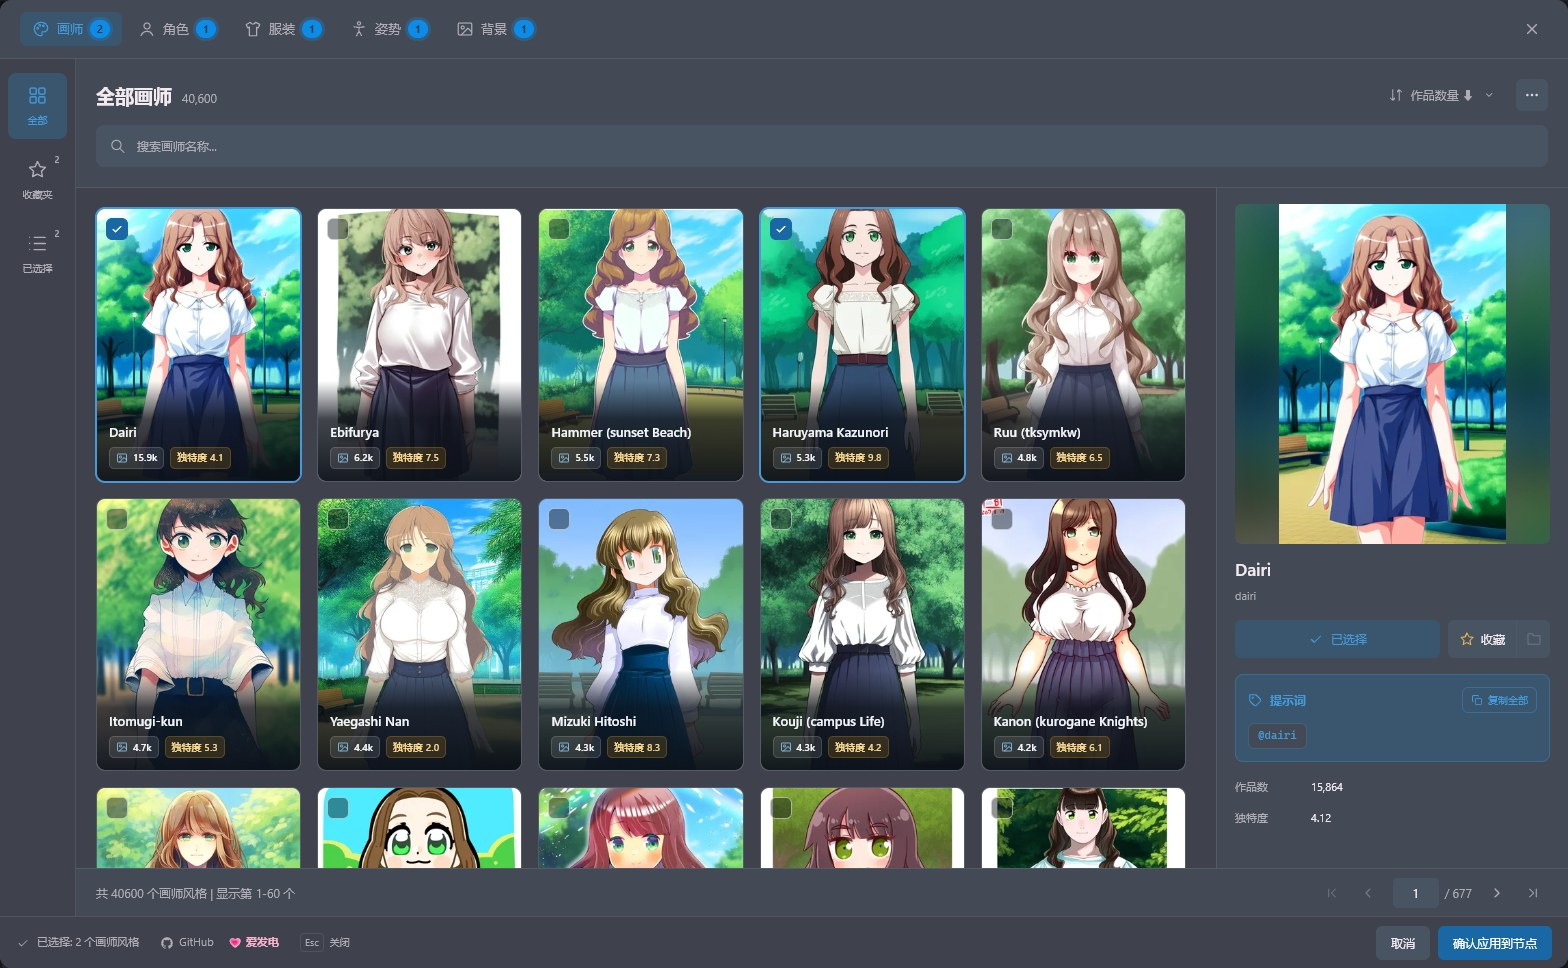
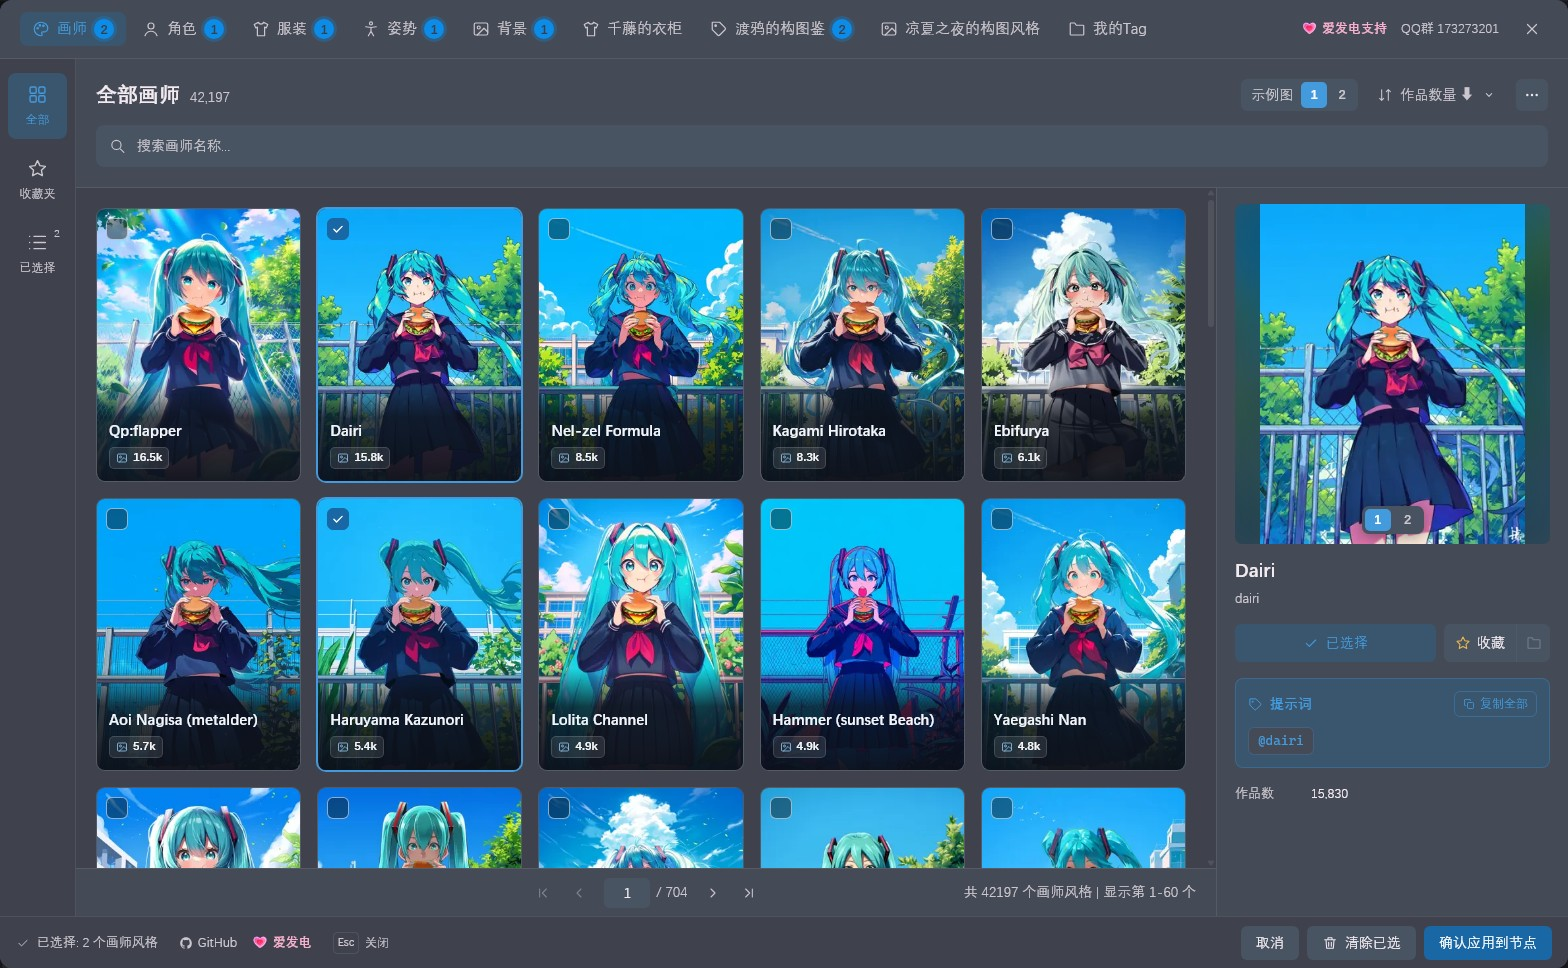
Update README with community libraries and new screenshots

diff --git a/README.md b/README.md
@@ -4,7 +4,7 @@
 
 **为 Anima 模型准备的 ComfyUI 提示词工具箱**
 
-可视化挑选画师、角色、服装、姿势与背景 · 一键随机抽卡 · 发现、下载并加载 Anima LoRA
+可视化挑选画师、角色、服装、姿势、背景与社区 Tag 库 · 自建我的Tag · 一键随机抽卡 · 发现、下载并加载 Anima LoRA
 
 <p>
   <img src="https://img.shields.io/badge/dynamic/toml?url=https%3A%2F%2Fraw.githubusercontent.com%2Fnregret%2FComfyui-Anima-Tools%2Fmain%2Fpyproject.toml&query=%24.project.version&label=version&color=ff69b4&style=flat-square" alt="Version">
@@ -15,7 +15,7 @@
   <img src="https://img.shields.io/badge/License-MIT-blue?style=flat-square" alt="License">
 </p>
 
-<sub>A ComfyUI toolkit for the Anima model: visual pickers for 42,197 artists, 8,000 characters, outfits, poses and backgrounds, a random prompt draw node, and an Anima LoRA manager. The UI follows ComfyUI's language setting (Chinese / English).</sub>
+<sub>A ComfyUI toolkit for the Anima model: visual pickers for 42,197 artists, 8,000 characters, outfits, poses and backgrounds, three community tag libraries (6,759 entries), a personal My Tags library, a random prompt draw node, and an Anima LoRA manager. The UI follows ComfyUI's language setting (Chinese / English).</sub>
 
 <img src="./img/artist.jpeg" alt="Anima 提示词选择器" width="100%">
 
@@ -26,6 +26,7 @@
 | 功能 | 说明 |
 | --- | --- |
 | 🎨 **一个弹窗挑全部提示词** | 画师 **42,197**、角色 **8,000**、服装 **430**、姿势 **297**、背景 **1,087**，顶部标签页切换，角标显示每类已选数量，选好的内容写进打开它的那个输入框 |
+| 📚 **社区 Tag 库 + 我的Tag** | 新增三个社区作者授权的 Tag 库共 **6,759** 条：千藤的衣柜 **125**、渡鸦的构图鉴 **6,570**、凉夏之夜的构图风格 **64**；还能在「我的Tag」里建自己的分类和条目，带封面，更新插件不丢失 |
 | 🎲 **随机抽卡** | 运行时从全量数据里随机抽画师、角色、服装、背景和姿势，固定种子可复现，结果带缩略图预览 |
 | 🧩 **Anima LoRA 管理器** | 在 ComfyUI 内搜索 Civitai 上的 Anima LoRA，下载、收藏、排序后直接叠加到模型上 |
 | 🖼 **Danbooru 随机图 + 标签** | 随机抽一张 Danbooru 静态图，同时输出按 Anima 写法整理好的标签 |
@@ -54,7 +55,7 @@ git clone https://github.com/nregret/Comfyui-Anima-Tools.git
 
 ### 🎨 提示词选择器
 
-五类选择器共用一个弹窗：左侧是「全部 / 收藏夹 / 已选择」和筛选面板，分类、特征等选项直接列出、点一下就筛选，每组可以折叠，选项多时带搜索；社区 Tag 库按原作者的分类显示成可展开的分类树。右侧详情页显示大图和提示词（点击即可复制）。切换分类时已选内容会保留，下次打开时回到上次使用的分类。
+画师、角色、服装、姿势、背景、三个社区 Tag 库和我的Tag 共用一个弹窗：左侧是「全部 / 收藏夹 / 已选择」和筛选面板，分类、特征等选项直接列出、点一下就筛选，每组可以折叠，选项多时带搜索；社区 Tag 库按原作者的分类显示成可展开的分类树。右侧详情页显示大图和提示词（点击即可复制）。切换分类时已选内容会保留，下次打开时回到上次使用的分类。
 
 <table>
   <tr>
@@ -80,6 +81,8 @@ git clone https://github.com/nregret/Comfyui-Anima-Tools.git
 | 千藤的衣柜 | 叫我千藤就好了 | 125 | 整套服装搭配，附风格说明 |
 | 渡鸦的构图鉴 | 渡鸦 | 6,570 | 服装、配饰、姿势、表情、背景、画风、角色等 Tag 词典，按原作者分类筛选 |
 | 凉夏之夜的构图风格 | 凉夏之夜 | 64 | 带镜头与权重的完整场景描述 |
+
+<img src="./img/library.jpeg" alt="渡鸦的构图鉴" width="100%">
 
 数据整理自 [quicktagcloud](https://novelai.quicktagcloud.com/)，由 `tools/import_codex_libraries.py` 生成。下划线已转成空格，括号已转义，原有的 `(tag:权重)` 保留。渡鸦构图鉴中的「秋季课堂」使用 NovelAI 专有语法，没有收录。
 
